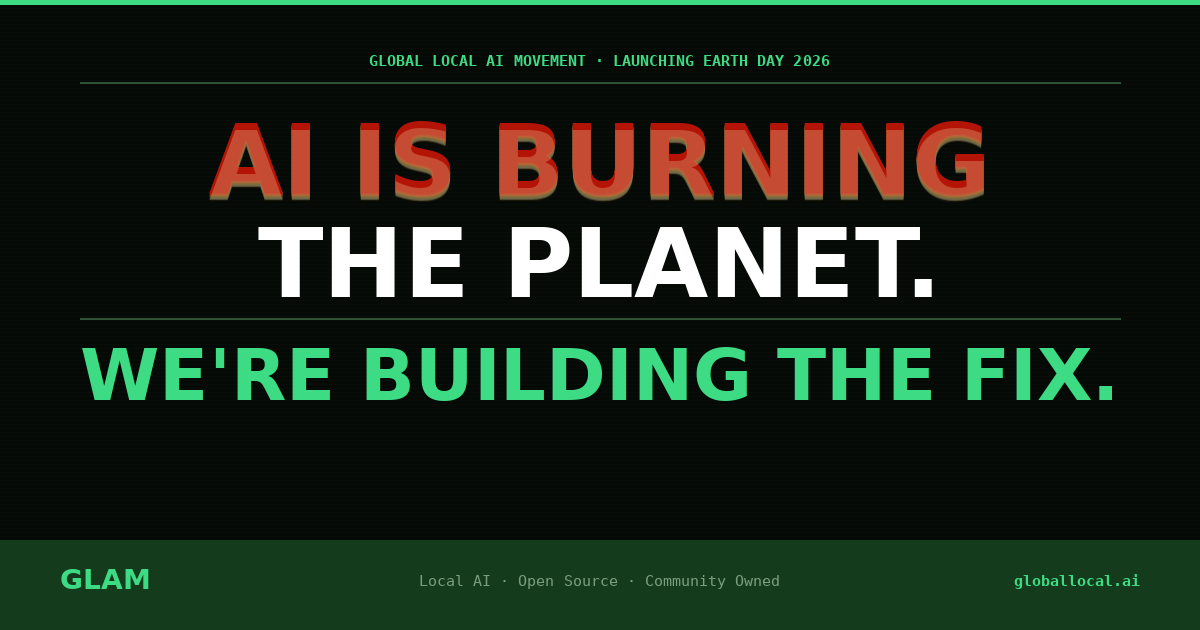
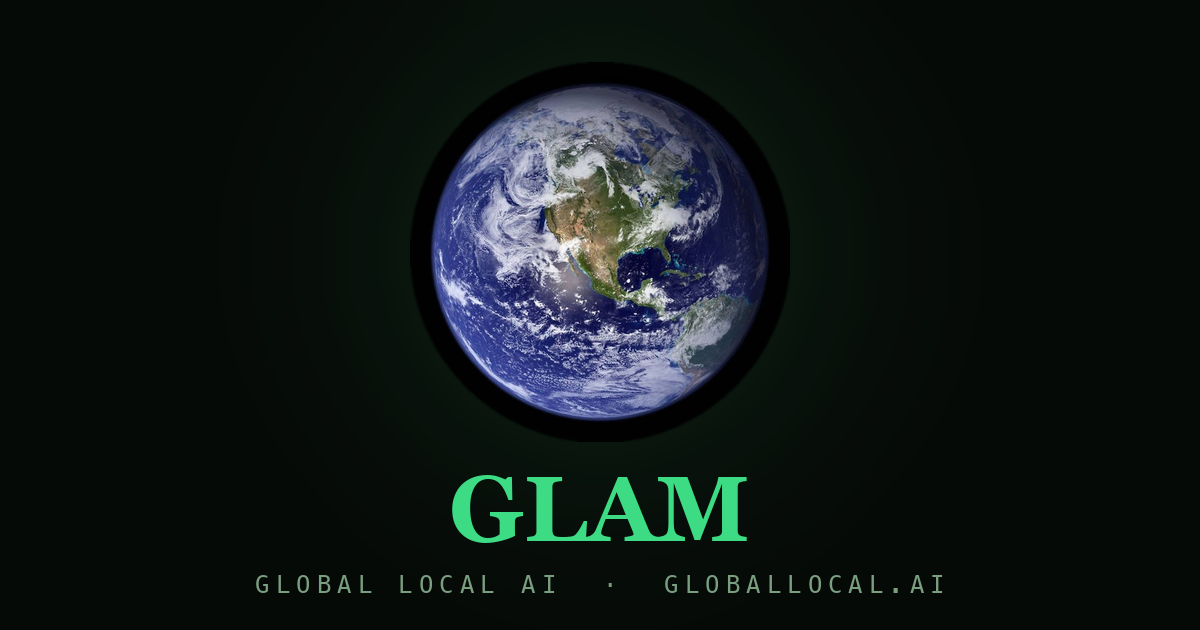
fix: mobile hero single-column layout + cleaner Blue Marble share image
Collapse the hero to one stacked column on <=900px so the Earth image no
longer crushes the title into a narrow right column on phones. Constrain
Earth size on small screens. Replace busy text og-image with a clean
Blue Marble Earth share card.

diff --git a/index.html b/index.html
@@ -237,8 +237,8 @@ footer{padding:2.5rem;border-top:1px solid var(--border2);display:flex;justify-c
 .footer-links a:hover{color:var(--green)}
 .footer-copy{font-family:'DM Mono',monospace;font-size:9px;color:var(--text3);letter-spacing:0.06em}
 
-@media(max-width:900px){.demo-inner{grid-template-columns:1fr}.stats-grid{grid-template-columns:1fr}.g-grid{grid-template-columns:1fr 1fr}.nav-links{display:none}}
-@media(max-width:600px){.hero,.manifesto,.crisis,.glammers,.demo,.calculator,.join{padding:5rem 1.5rem}.m-item{grid-template-columns:1fr;gap:0.5rem}.m-num{font-size:1.5rem;color:var(--green)}.g-grid{grid-template-columns:1fr}.res-grid{grid-template-columns:1fr}.calc-box{padding:1.5rem}footer{flex-direction:column;text-align:center}}
+@media(max-width:900px){.demo-inner{grid-template-columns:1fr}.stats-grid{grid-template-columns:1fr}.g-grid{grid-template-columns:1fr 1fr}.nav-links{display:none}.hero{grid-template-columns:1fr;text-align:center;min-height:auto}.hero-content{padding-left:0}.hero-eyebrow,.hero-title,.hero-sub{text-align:center}.hero-sub{margin-left:auto;margin-right:auto}.hero-actions,.hero-stats-row{justify-content:center}.hero-earth-wrap{margin:0 auto 2.5rem}.hero-earth{width:62%;max-width:300px}}
+@media(max-width:600px){.hero,.manifesto,.crisis,.glammers,.demo,.calculator,.join{padding:5rem 1.5rem}.hero{padding-top:7rem}.hero-earth{width:55%;max-width:240px}.hero-earth-wrap{margin-bottom:2rem}.m-item{grid-template-columns:1fr;gap:0.5rem}.m-num{font-size:1.5rem;color:var(--green)}.g-grid{grid-template-columns:1fr}.res-grid{grid-template-columns:1fr}.calc-box{padding:1.5rem}footer{flex-direction:column;text-align:center}}
 </style>
 </head>
 <body>